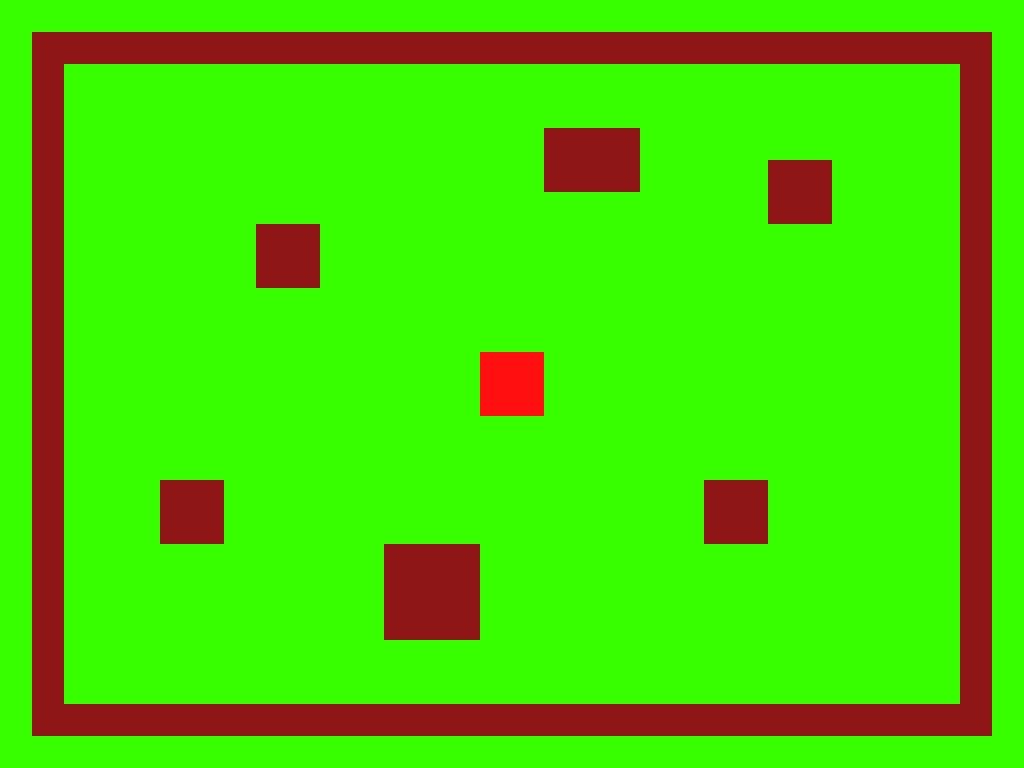
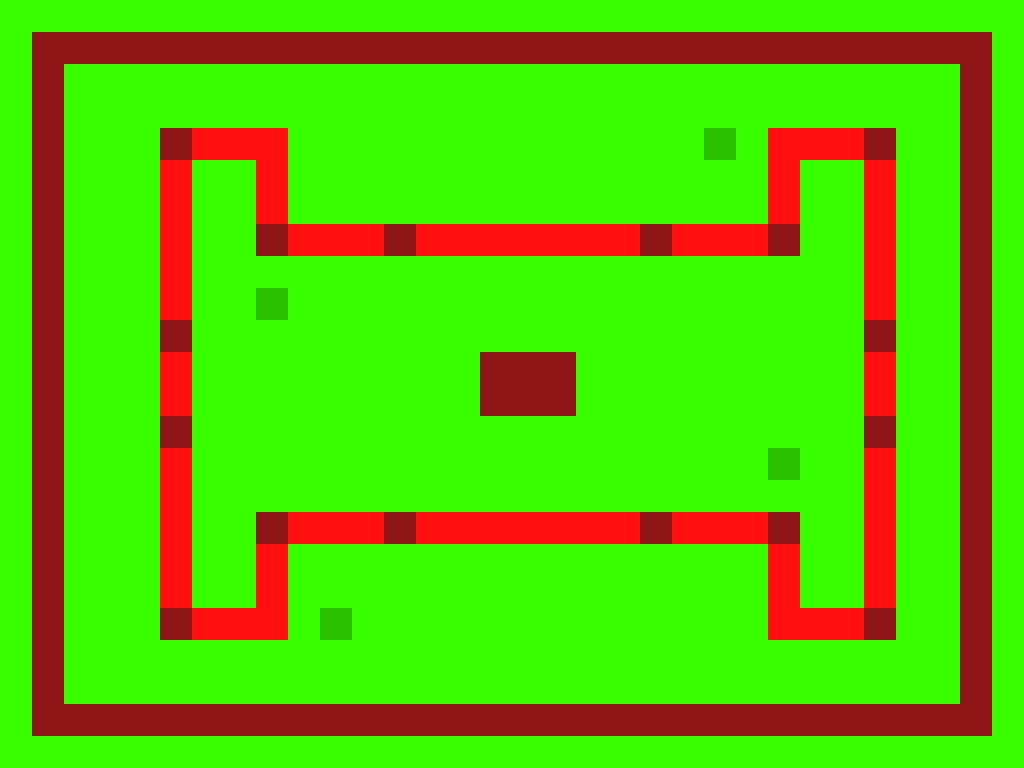
Enemy
Basic Enemie class and functionality

diff --git a/Code/map/collision.js b/Code/map/collision.js
@@ -4,6 +4,11 @@ const c = canvas.getContext('2d')
 canvas.width = 1024
 canvas.height = 768
 
+const boundaries = []
+const bricks = []
+const spp = []
+const spe = []
+
 const box = new Image()
 box.src = 'assets/Ice_Floor.png'
 
@@ -11,38 +16,35 @@ const collisions = [
   0, 0, 0, 0, 0, 0, 0, 0, 0, 0, 0, 0, 0, 0, 0, 0, 0, 0, 0, 0, 0, 0, 0, 0, 0, 0,
   0, 0, 0, 0, 0, 0, 0, 1, 1, 1, 1, 1, 1, 1, 1, 1, 1, 1, 1, 1, 1, 1, 1, 1, 1, 1,
   1, 1, 1, 1, 1, 1, 1, 1, 1, 1, 1, 0, 0, 1, 0, 0, 0, 0, 0, 0, 0, 0, 0, 0, 0, 0,
-  0, 0, 0, 0, 0, 0, 0, 0, 0, 0, 0, 0, 0, 0, 0, 0, 1, 0, 0, 1, 0, 2, 2, 2, 2, 2,
-  2, 2, 2, 2, 2, 2, 2, 0, 0, 0, 0, 0, 0, 0, 0, 0, 0, 0, 0, 2, 2, 0, 1, 0, 0, 1,
-  0, 2, 2, 2, 2, 2, 2, 2, 2, 2, 2, 2, 2, 0, 0, 1, 1, 1, 0, 0, 0, 0, 0, 0, 0, 2,
-  2, 0, 1, 0, 0, 1, 0, 0, 0, 0, 0, 0, 0, 0, 0, 0, 0, 0, 0, 0, 0, 1, 1, 1, 0, 0,
-  0, 0, 1, 1, 0, 2, 2, 0, 1, 0, 0, 1, 0, 0, 0, 0, 0, 0, 0, 0, 0, 0, 0, 0, 0, 0,
-  0, 0, 0, 0, 0, 0, 0, 0, 1, 1, 0, 2, 2, 0, 1, 0, 0, 1, 0, 0, 0, 0, 0, 0, 1, 1,
+  0, 0, 0, 0, 0, 0, 0, 0, 0, 0, 0, 0, 0, 0, 0, 0, 1, 0, 0, 1, 0, 3, 0, 0, 0, 0,
+  0, 0, 0, 0, 0, 0, 0, 0, 0, 0, 0, 0, 0, 0, 0, 0, 0, 0, 0, 0, 0, 0, 1, 0, 0, 1,
+  0, 0, 0, 1, 2, 2, 2, 0, 0, 0, 0, 0, 0, 0, 0, 0, 0, 0, 0, 0, 4, 0, 2, 2, 2, 1,
+  0, 0, 1, 0, 0, 1, 0, 0, 0, 2, 0, 0, 2, 0, 0, 0, 0, 0, 0, 0, 0, 0, 0, 0, 0, 0,
+  0, 0, 2, 0, 0, 2, 0, 0, 1, 0, 0, 1, 0, 0, 0, 2, 0, 0, 2, 0, 0, 0, 0, 0, 0, 0,
+  0, 0, 0, 0, 0, 0, 0, 0, 2, 0, 0, 2, 0, 0, 1, 0, 0, 1, 0, 0, 0, 2, 0, 0, 1, 2,
+  2, 2, 1, 2, 2, 2, 2, 2, 2, 2, 1, 2, 2, 2, 1, 0, 0, 2, 0, 0, 1, 0, 0, 1, 0, 0,
+  0, 2, 0, 0, 0, 0, 0, 0, 0, 0, 0, 0, 0, 0, 0, 0, 0, 0, 0, 0, 0, 0, 0, 2, 0, 0,
+  1, 0, 0, 1, 0, 0, 0, 2, 0, 0, 4, 0, 0, 0, 0, 0, 0, 0, 0, 0, 0, 0, 0, 0, 0, 0,
+  0, 0, 0, 2, 0, 0, 1, 0, 0, 1, 0, 0, 0, 1, 0, 0, 0, 0, 0, 0, 0, 0, 0, 0, 0, 0,
+  0, 0, 0, 0, 0, 0, 0, 0, 0, 1, 0, 0, 1, 0, 0, 1, 0, 0, 0, 2, 0, 0, 0, 0, 0, 0,
+  0, 0, 0, 1, 1, 1, 0, 0, 0, 0, 0, 0, 0, 0, 0, 2, 0, 0, 1, 0, 0, 1, 0, 0, 0, 2,
+  0, 0, 0, 0, 0, 0, 0, 0, 0, 1, 1, 1, 0, 0, 0, 0, 0, 0, 0, 0, 0, 2, 0, 0, 1, 0,
+  0, 1, 0, 0, 0, 1, 0, 0, 0, 0, 0, 0, 0, 0, 0, 0, 0, 0, 0, 0, 0, 0, 0, 0, 0, 0,
+  0, 1, 0, 0, 1, 0, 0, 1, 0, 0, 0, 2, 0, 0, 0, 0, 0, 0, 0, 0, 0, 0, 0, 0, 0, 0,
+  0, 0, 0, 0, 4, 0, 0, 2, 0, 0, 1, 0, 0, 1, 0, 0, 0, 2, 0, 0, 0, 0, 0, 0, 0, 0,
+  0, 0, 0, 0, 0, 0, 0, 0, 0, 0, 0, 0, 0, 2, 0, 0, 1, 0, 0, 1, 0, 0, 0, 2, 0, 0,
+  1, 2, 2, 2, 1, 2, 2, 2, 2, 2, 2, 2, 1, 2, 2, 2, 1, 0, 0, 2, 0, 0, 1, 0, 0, 1,
+  0, 0, 0, 2, 0, 0, 2, 0, 0, 0, 0, 0, 0, 0, 0, 0, 0, 0, 0, 0, 0, 0, 2, 0, 0, 2,
+  0, 0, 1, 0, 0, 1, 0, 0, 0, 2, 0, 0, 2, 0, 0, 0, 0, 0, 0, 0, 0, 0, 0, 0, 0, 0,
+  0, 0, 2, 0, 0, 2, 0, 0, 1, 0, 0, 1, 0, 0, 0, 1, 2, 2, 2, 0, 4, 0, 0, 0, 0, 0,
+  0, 0, 0, 0, 0, 0, 0, 0, 2, 2, 2, 1, 0, 0, 1, 0, 0, 1, 0, 0, 0, 0, 0, 0, 0, 0,
   0, 0, 0, 0, 0, 0, 0, 0, 0, 0, 0, 0, 0, 0, 0, 0, 0, 0, 0, 0, 1, 0, 0, 1, 0, 0,
-  0, 0, 0, 0, 1, 1, 0, 0, 0, 0, 0, 0, 0, 0, 0, 0, 0, 0, 0, 0, 0, 0, 0, 0, 0, 0,
-  1, 0, 0, 1, 0, 0, 0, 0, 0, 0, 0, 0, 0, 0, 0, 2, 2, 0, 0, 0, 0, 0, 0, 0, 0, 0,
-  0, 0, 0, 0, 0, 0, 1, 0, 0, 1, 0, 0, 0, 0, 0, 0, 0, 0, 0, 0, 0, 2, 2, 0, 0, 0,
-  0, 0, 0, 0, 0, 0, 0, 0, 0, 0, 0, 0, 1, 0, 0, 1, 0, 0, 0, 0, 0, 0, 0, 0, 0, 0,
-  0, 2, 2, 0, 0, 0, 0, 0, 0, 0, 0, 0, 0, 0, 0, 0, 0, 0, 1, 0, 0, 1, 0, 0, 0, 0,
-  0, 0, 0, 0, 0, 0, 0, 2, 2, 0, 0, 0, 0, 0, 0, 0, 0, 0, 0, 0, 0, 0, 0, 0, 1, 0,
-  0, 1, 0, 0, 0, 0, 0, 0, 0, 0, 0, 0, 0, 2, 2, 0, 0, 0, 0, 0, 0, 0, 0, 0, 0, 0,
-  0, 0, 0, 0, 1, 0, 0, 1, 0, 0, 0, 0, 0, 0, 0, 2, 2, 0, 0, 0, 0, 0, 0, 0, 0, 0,
-  0, 0, 0, 0, 0, 0, 0, 0, 0, 0, 1, 0, 0, 1, 0, 0, 0, 1, 1, 0, 0, 2, 2, 0, 0, 0,
-  0, 0, 0, 0, 0, 0, 0, 0, 1, 1, 0, 0, 0, 2, 2, 0, 1, 0, 0, 1, 0, 0, 0, 1, 1, 0,
-  0, 2, 2, 0, 0, 0, 0, 0, 0, 0, 0, 0, 0, 0, 1, 1, 0, 0, 0, 2, 2, 0, 1, 0, 0, 1,
-  0, 0, 0, 0, 0, 0, 0, 2, 2, 0, 1, 1, 1, 0, 0, 0, 0, 0, 0, 0, 0, 0, 0, 0, 0, 2,
-  2, 0, 1, 0, 0, 1, 0, 0, 0, 0, 0, 0, 0, 2, 2, 0, 1, 1, 1, 0, 0, 0, 0, 0, 0, 0,
-  0, 0, 0, 0, 0, 2, 2, 0, 1, 0, 0, 1, 0, 2, 2, 2, 2, 0, 0, 2, 2, 0, 1, 1, 1, 0,
-  0, 0, 0, 0, 0, 0, 2, 2, 2, 2, 2, 2, 2, 0, 1, 0, 0, 1, 0, 2, 2, 2, 2, 0, 0, 2,
-  2, 0, 0, 0, 0, 0, 0, 0, 0, 0, 0, 0, 2, 2, 2, 2, 2, 2, 2, 0, 1, 0, 0, 1, 0, 0,
   0, 0, 0, 0, 0, 0, 0, 0, 0, 0, 0, 0, 0, 0, 0, 0, 0, 0, 0, 0, 0, 0, 0, 0, 0, 0,
   1, 0, 0, 1, 1, 1, 1, 1, 1, 1, 1, 1, 1, 1, 1, 1, 1, 1, 1, 1, 1, 1, 1, 1, 1, 1,
   1, 1, 1, 1, 1, 1, 1, 0, 0, 0, 0, 0, 0, 0, 0, 0, 0, 0, 0, 0, 0, 0, 0, 0, 0, 0,
   0, 0, 0, 0, 0, 0, 0, 0, 0, 0, 0, 0, 0, 0,
 ]
 const collisionMap = []
-
-const boundaries = []
-const bricks = []
 
 for (let i = 0; i < collisions.length; i += 32) {
   collisionMap.push(collisions.slice(i, i + 32))
@@ -108,8 +110,26 @@ collisionMap.forEach((row, y) => {
           image: box,
         })
       )
+    } else if (symbol == 3) {
+      spp.push(
+        new Boundary({
+          position: {
+            x: x * Boundary.width,
+            y: y * Boundary.height,
+          },
+        })
+      )
+    } else if (symbol == 4) {
+      spe.push(
+        new Boundary({
+          position: {
+            x: x * Boundary.width,
+            y: y * Boundary.height,
+          },
+        })
+      )
     }
   })
 })
 
-export { boundaries, bricks }
+export { boundaries, bricks, spp, spe }

diff --git a/Code/map/ tat.js b/Code/map/ tat.js
@@ -51,24 +51,24 @@
          "data":[0, 0, 0, 0, 0, 0, 0, 0, 0, 0, 0, 0, 0, 0, 0, 0, 0, 0, 0, 0, 0, 0, 0, 0, 0, 0, 0, 0, 0, 0, 0, 0,
             0, 1, 1, 1, 1, 1, 1, 1, 1, 1, 1, 1, 1, 1, 1, 1, 1, 1, 1, 1, 1, 1, 1, 1, 1, 1, 1, 1, 1, 1, 1, 0,
             0, 1, 0, 0, 0, 0, 0, 0, 0, 0, 0, 0, 0, 0, 0, 0, 0, 0, 0, 0, 0, 0, 0, 0, 0, 0, 0, 0, 0, 0, 1, 0,
-            0, 1, 0, 2, 2, 2, 2, 2, 2, 2, 2, 2, 2, 2, 2, 0, 0, 0, 0, 0, 0, 0, 0, 0, 0, 0, 0, 2, 2, 0, 1, 0,
-            0, 1, 0, 2, 2, 2, 2, 2, 2, 2, 2, 2, 2, 2, 2, 0, 0, 1, 1, 1, 0, 0, 0, 0, 0, 0, 0, 2, 2, 0, 1, 0,
-            0, 1, 0, 0, 0, 0, 0, 0, 0, 0, 0, 0, 0, 0, 0, 0, 0, 1, 1, 1, 0, 0, 0, 0, 1, 1, 0, 2, 2, 0, 1, 0,
-            0, 1, 0, 0, 0, 0, 0, 0, 0, 0, 0, 0, 0, 0, 0, 0, 0, 0, 0, 0, 0, 0, 0, 0, 1, 1, 0, 2, 2, 0, 1, 0,
-            0, 1, 0, 0, 0, 0, 0, 0, 1, 1, 0, 0, 0, 0, 0, 0, 0, 0, 0, 0, 0, 0, 0, 0, 0, 0, 0, 0, 0, 0, 1, 0,
-            0, 1, 0, 0, 0, 0, 0, 0, 1, 1, 0, 0, 0, 0, 0, 0, 0, 0, 0, 0, 0, 0, 0, 0, 0, 0, 0, 0, 0, 0, 1, 0,
-            0, 1, 0, 0, 0, 0, 0, 0, 0, 0, 0, 0, 0, 2, 2, 0, 0, 0, 0, 0, 0, 0, 0, 0, 0, 0, 0, 0, 0, 0, 1, 0,
-            0, 1, 0, 0, 0, 0, 0, 0, 0, 0, 0, 0, 0, 2, 2, 0, 0, 0, 0, 0, 0, 0, 0, 0, 0, 0, 0, 0, 0, 0, 1, 0,
-            0, 1, 0, 0, 0, 0, 0, 0, 0, 0, 0, 0, 0, 2, 2, 0, 0, 0, 0, 0, 0, 0, 0, 0, 0, 0, 0, 0, 0, 0, 1, 0,
-            0, 1, 0, 0, 0, 0, 0, 0, 0, 0, 0, 0, 0, 2, 2, 0, 0, 0, 0, 0, 0, 0, 0, 0, 0, 0, 0, 0, 0, 0, 1, 0,
-            0, 1, 0, 0, 0, 0, 0, 0, 0, 0, 0, 0, 0, 2, 2, 0, 0, 0, 0, 0, 0, 0, 0, 0, 0, 0, 0, 0, 0, 0, 1, 0,
-            0, 1, 0, 0, 0, 0, 0, 0, 0, 2, 2, 0, 0, 0, 0, 0, 0, 0, 0, 0, 0, 0, 0, 0, 0, 0, 0, 0, 0, 0, 1, 0,
-            0, 1, 0, 0, 0, 1, 1, 0, 0, 2, 2, 0, 0, 0, 0, 0, 0, 0, 0, 0, 0, 0, 1, 1, 0, 0, 0, 2, 2, 0, 1, 0,
-            0, 1, 0, 0, 0, 1, 1, 0, 0, 2, 2, 0, 0, 0, 0, 0, 0, 0, 0, 0, 0, 0, 1, 1, 0, 0, 0, 2, 2, 0, 1, 0,
-            0, 1, 0, 0, 0, 0, 0, 0, 0, 2, 2, 0, 1, 1, 1, 0, 0, 0, 0, 0, 0, 0, 0, 0, 0, 0, 0, 2, 2, 0, 1, 0,
-            0, 1, 0, 0, 0, 0, 0, 0, 0, 2, 2, 0, 1, 1, 1, 0, 0, 0, 0, 0, 0, 0, 0, 0, 0, 0, 0, 2, 2, 0, 1, 0,
-            0, 1, 0, 2, 2, 2, 2, 0, 0, 2, 2, 0, 1, 1, 1, 0, 0, 0, 0, 0, 0, 0, 2, 2, 2, 2, 2, 2, 2, 0, 1, 0,
-            0, 1, 0, 2, 2, 2, 2, 0, 0, 2, 2, 0, 0, 0, 0, 0, 0, 0, 0, 0, 0, 0, 2, 2, 2, 2, 2, 2, 2, 0, 1, 0,
+            0, 1, 0, 3, 0, 0, 0, 0, 0, 0, 0, 0, 0, 0, 0, 0, 0, 0, 0, 0, 0, 0, 0, 0, 0, 0, 0, 0, 0, 0, 1, 0,
+            0, 1, 0, 0, 0, 1, 2, 2, 2, 0, 0, 0, 0, 0, 0, 0, 0, 0, 0, 0, 0, 0, 4, 0, 2, 2, 2, 1, 0, 0, 1, 0,
+            0, 1, 0, 0, 0, 2, 0, 0, 2, 0, 0, 0, 0, 0, 0, 0, 0, 0, 0, 0, 0, 0, 0, 0, 2, 0, 0, 2, 0, 0, 1, 0,
+            0, 1, 0, 0, 0, 2, 0, 0, 2, 0, 0, 0, 0, 0, 0, 0, 0, 0, 0, 0, 0, 0, 0, 0, 2, 0, 0, 2, 0, 0, 1, 0,
+            0, 1, 0, 0, 0, 2, 0, 0, 1, 2, 2, 2, 1, 2, 2, 2, 2, 2, 2, 2, 1, 2, 2, 2, 1, 0, 0, 2, 0, 0, 1, 0,
+            0, 1, 0, 0, 0, 2, 0, 0, 0, 0, 0, 0, 0, 0, 0, 0, 0, 0, 0, 0, 0, 0, 0, 0, 0, 0, 0, 2, 0, 0, 1, 0,
+            0, 1, 0, 0, 0, 2, 0, 0, 4, 0, 0, 0, 0, 0, 0, 0, 0, 0, 0, 0, 0, 0, 0, 0, 0, 0, 0, 2, 0, 0, 1, 0,
+            0, 1, 0, 0, 0, 1, 0, 0, 0, 0, 0, 0, 0, 0, 0, 0, 0, 0, 0, 0, 0, 0, 0, 0, 0, 0, 0, 1, 0, 0, 1, 0,
+            0, 1, 0, 0, 0, 2, 0, 0, 0, 0, 0, 0, 0, 0, 0, 1, 1, 1, 0, 0, 0, 0, 0, 0, 0, 0, 0, 2, 0, 0, 1, 0,
+            0, 1, 0, 0, 0, 2, 0, 0, 0, 0, 0, 0, 0, 0, 0, 1, 1, 1, 0, 0, 0, 0, 0, 0, 0, 0, 0, 2, 0, 0, 1, 0,
+            0, 1, 0, 0, 0, 1, 0, 0, 0, 0, 0, 0, 0, 0, 0, 0, 0, 0, 0, 0, 0, 0, 0, 0, 0, 0, 0, 1, 0, 0, 1, 0,
+            0, 1, 0, 0, 0, 2, 0, 0, 0, 0, 0, 0, 0, 0, 0, 0, 0, 0, 0, 0, 0, 0, 0, 0, 4, 0, 0, 2, 0, 0, 1, 0,
+            0, 1, 0, 0, 0, 2, 0, 0, 0, 0, 0, 0, 0, 0, 0, 0, 0, 0, 0, 0, 0, 0, 0, 0, 0, 0, 0, 2, 0, 0, 1, 0,
+            0, 1, 0, 0, 0, 2, 0, 0, 1, 2, 2, 2, 1, 2, 2, 2, 2, 2, 2, 2, 1, 2, 2, 2, 1, 0, 0, 2, 0, 0, 1, 0,
+            0, 1, 0, 0, 0, 2, 0, 0, 2, 0, 0, 0, 0, 0, 0, 0, 0, 0, 0, 0, 0, 0, 0, 0, 2, 0, 0, 2, 0, 0, 1, 0,
+            0, 1, 0, 0, 0, 2, 0, 0, 2, 0, 0, 0, 0, 0, 0, 0, 0, 0, 0, 0, 0, 0, 0, 0, 2, 0, 0, 2, 0, 0, 1, 0,
+            0, 1, 0, 0, 0, 1, 2, 2, 2, 0, 4, 0, 0, 0, 0, 0, 0, 0, 0, 0, 0, 0, 0, 0, 2, 2, 2, 1, 0, 0, 1, 0,
+            0, 1, 0, 0, 0, 0, 0, 0, 0, 0, 0, 0, 0, 0, 0, 0, 0, 0, 0, 0, 0, 0, 0, 0, 0, 0, 0, 0, 0, 0, 1, 0,
             0, 1, 0, 0, 0, 0, 0, 0, 0, 0, 0, 0, 0, 0, 0, 0, 0, 0, 0, 0, 0, 0, 0, 0, 0, 0, 0, 0, 0, 0, 1, 0,
             0, 1, 1, 1, 1, 1, 1, 1, 1, 1, 1, 1, 1, 1, 1, 1, 1, 1, 1, 1, 1, 1, 1, 1, 1, 1, 1, 1, 1, 1, 1, 0,
             0, 0, 0, 0, 0, 0, 0, 0, 0, 0, 0, 0, 0, 0, 0, 0, 0, 0, 0, 0, 0, 0, 0, 0, 0, 0, 0, 0, 0, 0, 0, 0],

diff --git a/Code/app.js b/Code/app.js
@@ -1,6 +1,7 @@
-import { boundaries, bricks } from './map/collision.js'
+import { boundaries, bricks, spp, spe } from './map/collision.js'
 import Player from './Classes/Player.js'
 import Bomb from './Classes/Bomb.js'
+import Enemy from './Classes/Enemy.js'
 
 const canvas = document.querySelector('canvas')
 const c = canvas.getContext('2d')
@@ -23,8 +24,8 @@ let bombs = []
 
 const player = new Player({
   position: {
-    x: 200,
-    y: 200,
+    x: spp[0].position.x,
+    y: spp[0].position.y,
   },
   velocity: {
     x: 0,
@@ -32,6 +33,28 @@ const player = new Player({
   },
   image: playerImage,
 })
+
+const enemies = []
+for (let i = 0; i < 4; i++) {
+  {
+    enemies.push(
+      new Enemy({
+        position: {
+          x: spe[i].position.x,
+          y: spe[i].position.y + 2,
+        },
+        velocity: {
+          x: 0,
+          y: 0,
+        },
+
+        width: 32,
+        height: 60,
+        health: 2,
+      })
+    )
+  }
+}
 
 let moving = {
   x: true,
@@ -170,10 +193,41 @@ function animate() {
   }
 
   bombs.forEach((bomb) => {
-    if (boom) {
+    if (boom && boomed) {
+      for (let i = 0; i < enemies.length; i++) {
+        if (
+          rectangularCollision({
+            rectangle1: enemies[i],
+            rectangle2: bombs[0],
+          })
+        ) {
+          enemies[i].health--
+          if (enemies[i].health == 0) {
+            enemies.splice(i, 1)
+          }
+          boomed = false
+          break
+        }
+      }
       bomb.boom()
     } else bomb.draw()
   })
+
+  enemies.forEach((enemy) => {
+    for (let i = 0; i < boundaries.length; i++) {
+      if (
+        rectangularCollision({
+          rectangle1: boundaries[i],
+          rectangle2: enemy,
+        })
+      ) {
+        enemy.speed = -enemy.speed
+        break
+      }
+    }
+    enemy.update()
+  })
+
   player.draw()
 }
 
@@ -187,6 +241,7 @@ let press = {
 }
 
 let boom = false
+let boomed = false
 
 addEventListener('keydown', (e) => {
   switch (e.key) {
@@ -267,17 +322,18 @@ bg.onload = () => {
     boom = false
     bombs.push(
       new Bomb({
-        width: 96,
-        height: 96,
+        width: 64,
+        height: 64,
         position: {
-          x: player.position.x + player.width / 2 - 32,
-          y: player.position.y + player.height / 2 - 32,
+          x: player.position.x - 20,
+          y: player.position.y - 12,
         },
       })
     )
 
     setTimeout(() => {
       boom = true
+      boomed = true
     }, 750)
 
     setTimeout(() => {
@@ -287,7 +343,7 @@ bg.onload = () => {
           rectangle2: bombs[0],
         })
       ) {
-        // console.log('Go')
+        //console.log('Go')
       }
 
       bombs.pop()

diff --git a/Code/Classes/Enemy.js b/Code/Classes/Enemy.js
@@ -1,0 +1,34 @@
+const canvas = document.querySelector('canvas')
+const c = canvas.getContext('2d')
+
+canvas.width = 1024
+canvas.height = 768
+
+class Enemy {
+  constructor({ position, velocity, health, speed, width, height }) {
+    this.position = position
+    this.startingPosition = JSON.parse(JSON.stringify(position))
+    this.velocity = velocity
+    this.width = width
+    this.height = height
+    this.health = health
+
+    this.speed = 2
+  }
+
+  draw() {
+    c.fillStyle = 'purple'
+    c.fillRect(this.position.x, this.position.y, this.width, this.height)
+  }
+
+  update() {
+    this.draw()
+    if (this.startingPosition.x >= canvas.width / 2)
+      this.position.x -= this.speed
+    else this.position.x += this.speed
+  }
+  //Enemie will follow Player
+  follow() {}
+}
+
+export default Enemy

diff --git a/Code/Classes/Bomb.js b/Code/Classes/Bomb.js
@@ -14,10 +14,10 @@ class Bomb {
   draw() {
     c.fillStyle = 'black'
     c.fillRect(
-      this.position.x + 32,
-      this.position.y + 32,
-      this.width - 64,
-      this.height - 64
+      this.position.x + 16,
+      this.position.y + 18,
+      this.width - 32,
+      this.height - 32
     )
   }
 

diff --git a/Code/Classes/Player.js b/Code/Classes/Player.js
@@ -9,7 +9,7 @@ class Player {
     this.position = position
     this.velocity = velocity
     this.image = image
-    this.size = 1.5
+    this.size = 1.4
 
     this.width = 16 * this.size
     this.height = 32 * this.size
